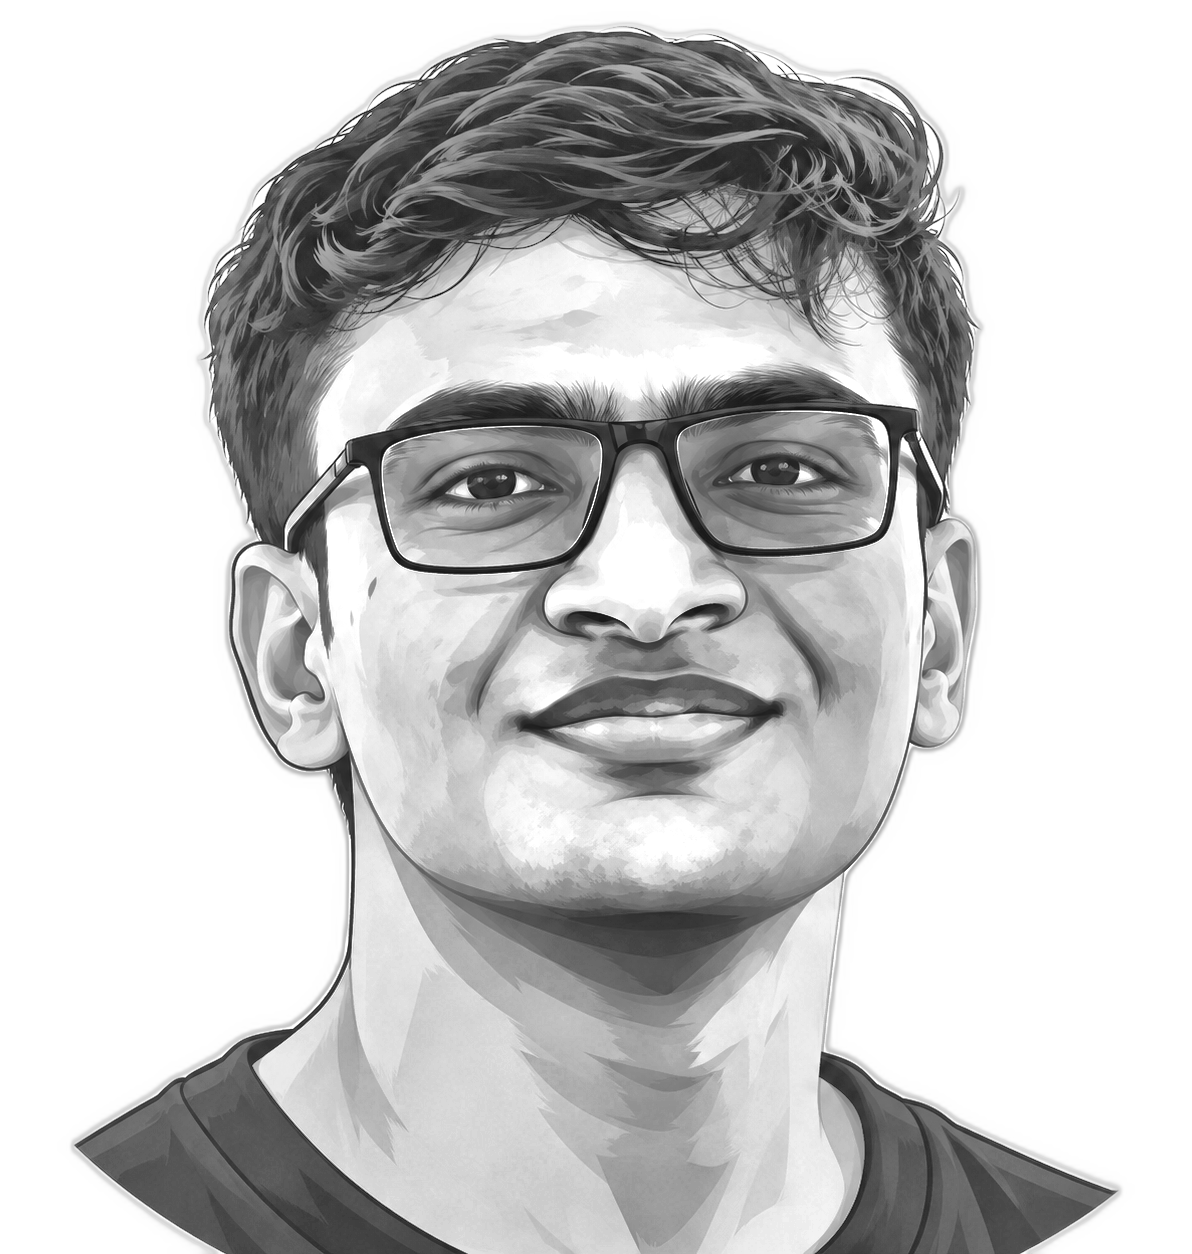
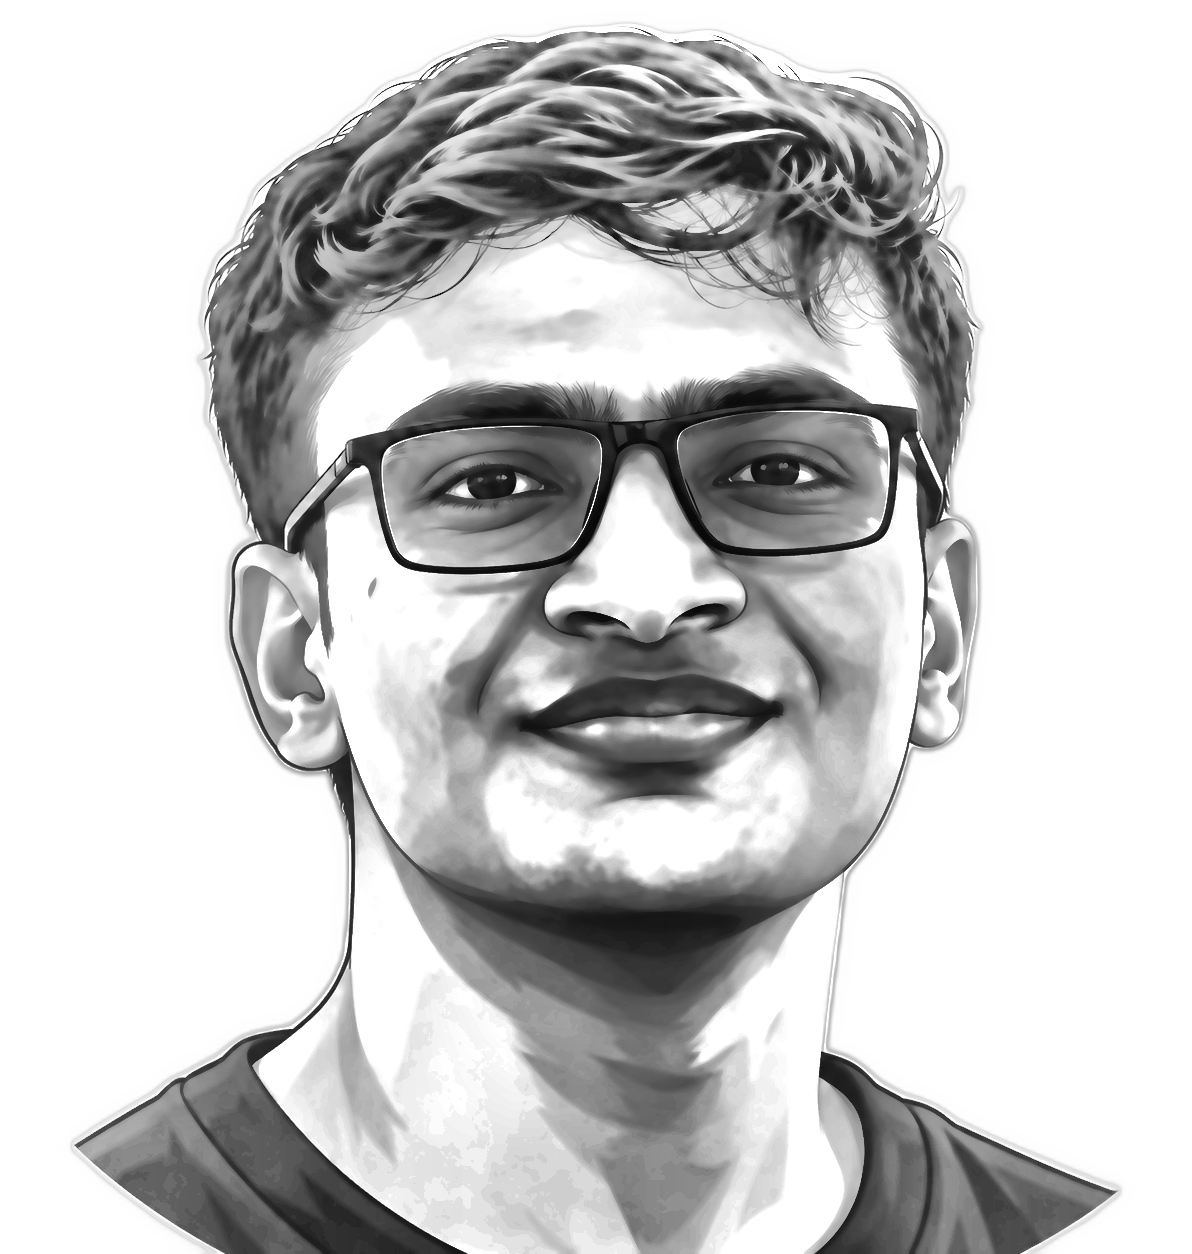
feat: improve ASCII portrait quality — 160cols, stronger CLAHE, better gamma

diff --git a/scripts/make_ascii_svg.py b/scripts/make_ascii_svg.py
@@ -23,27 +23,27 @@ HERE = os.path.dirname(os.path.abspath(__file__))
 SRC = sys.argv[1] if len(sys.argv) > 1 else os.path.join(HERE, "..", "source-prepped.png")
 OUT = sys.argv[2] if len(sys.argv) > 2 else os.path.join(HERE, "..", "kesi-ascii.svg")
 
-COLS = 120
-ROWS = 65
+COLS = 160          # more columns = sharper horizontal detail (Avi's reference ≈160)
 CELL_W = 3.2
 CELL_H = 5.46
-RAMP = " .`:-=+*cs#%@"  # bright(sparse) -> dark(dense); leading space clears bg
+ROWS = int(COLS * CELL_W / CELL_H * 1.35)   # auto rows: match source aspect ratio better
+RAMP = " .`',:;-=+*iIcsCS#%@"  # 22-level ramp: more gradation in mid-tones & shadows
 
-# the prepped image already has bg removed + CLAHE local contrast, so only
-# light global tuning is needed here.
-CONTRAST = 1.15
+# push contrast and gamma hard so facial features fill their character slots
+CONTRAST   = 1.55   # strong global contrast to make edges pop
 BRIGHTNESS = 1.0
-GAMMA = 1.08          # closer to 1.0 keeps more midtone detail in the face
-SHARPEN = True        # sharpen edges for crisper ASCII
-WHITE_FLOOR = 0.82    # luminance above this is forced to blank (space)
+GAMMA      = 0.78   # < 1.0 darkens midtones → face fills more of the ramp's dark half
+SHARPEN    = True   # unsharp-mask to crisp up glasses frames and hair edges
+WHITE_FLOOR = 0.72  # luminance above this → blank (lower = fewer blank spots on face)
 
-PAD = 20
+PAD        = 20
 TITLEBAR_H = 30
-STATUS_H = 30
-ART_W = COLS * CELL_W
-ART_H = ROWS * CELL_H
-CANVAS_W = 424
-CANVAS_H = 427
+STATUS_H   = 30
+ART_W  = COLS * CELL_W
+ART_H  = ROWS * CELL_H
+# auto-size canvas to fit the higher-res art
+CANVAS_W = int(ART_W + PAD * 2)
+CANVAS_H = int(TITLEBAR_H + ART_H + STATUS_H + PAD)
 
 BG = "#0d1117"
 BG2 = "#111722"

diff --git a/scripts/prep_photo.py b/scripts/prep_photo.py
@@ -28,13 +28,20 @@ cut = remove(Image.open(INP).convert("RGBA"))
 rgb = np.array(cut.convert("RGB"))
 alpha = np.array(cut.split()[-1])                 # 0 = background
 
-# 2. local-contrast the luminance (CLAHE)
+# 1b. bilateral filter to sharpen edges while keeping skin smooth
+rgb = cv2.bilateralFilter(rgb, d=9, sigmaColor=50, sigmaSpace=50)
+
+# 2. local-contrast the luminance (CLAHE) — stronger clip for more face detail
 gray = cv2.cvtColor(rgb, cv2.COLOR_RGB2GRAY)
-clahe = cv2.createCLAHE(clipLimit=2.6, tileGridSize=(8, 8))
+clahe = cv2.createCLAHE(clipLimit=4.0, tileGridSize=(6, 6))
 gray = clahe.apply(gray)
 
-# a touch of global lift so the face sits in the sparse end of the ramp
-gray = cv2.convertScaleAbs(gray, alpha=1.05, beta=18)
+# apply a second mild CLAHE pass at finer tile to pull out micro-detail (glasses, eyes)
+clahe2 = cv2.createCLAHE(clipLimit=2.0, tileGridSize=(4, 4))
+gray = clahe2.apply(gray)
+
+# global scale: slightly boost contrast, minimal lift so darks stay dark
+gray = cv2.convertScaleAbs(gray, alpha=1.15, beta=8)
 
 # 3. paste onto white using the alpha mask (feathered a hair to avoid a halo)
 mask = (alpha.astype(np.float32) / 255.0)
